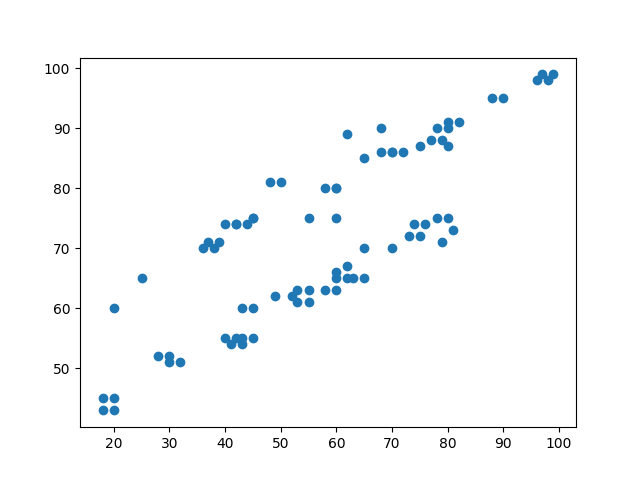
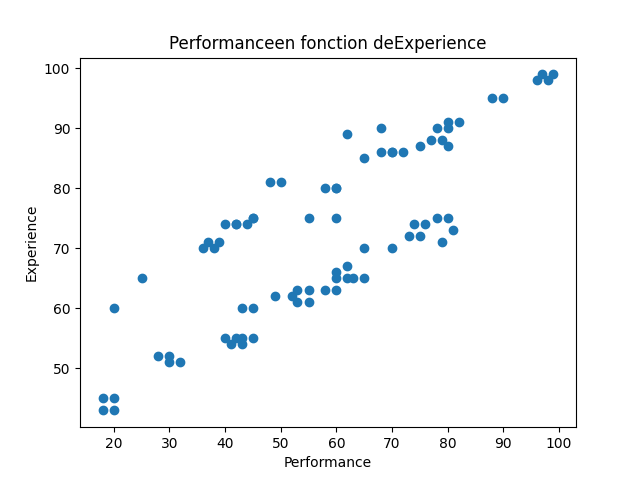
add legend to graph

Changed region(s): [[0.25, 0.0625, 0.75, 0.125], [0.4375, 0.9375, 0.5938, 0.9688], [0.0312, 0.4375, 0.0625, 0.5938]]

diff --git a/python.py b/python.py
@@ -38,22 +38,25 @@ def indicateurs(colonne): # Fonction qui calcule des indicateurs
     compter(colonne)
     
 
-def scatter(x, y):
-  plt.scatter(x, y)
+def scatter(data, x, y):
+  plt.scatter(data[x], data[y])
+  plt.title(x + str(" en fonction de ") + y)
+  plt.xlabel(x)
+  plt.ylabel(y)
   plt.savefig("nuage_de_points")
 
 
 def realisation(data, choix): # Fonction qui agit en fonction du choix de l'utilisateur
 
-  if choix == 1:
+  if choix == "1":
     print(data)
-  elif choix == 2:
+  elif choix == "2":
     colonne = while_liste('Nom de colonne sur lequel faire : ', data.columns)
     indicateurs(data[colonne])
-  elif choix == 3:
+  elif choix == "3":
     axe_x = while_liste("Nom de colonne pour l'axe x : ", data.columns)
     axe_y = while_liste("Nom de colonne pour l'axe y : ", data.columns)
-    scatter(data[axe_x], data[axe_y])
+    scatter(data, axe_x, axe_y)
   else:
     print("r")
 
@@ -67,5 +70,4 @@ if __name__ == "__main__":
     action = while_liste('Que voulez-vous faire : ', ["1", "2", "3", "exit"])
     if action == "exit":
       break
-    action = int(action)
     realisation(fichier, action)

diff --git a/README.md b/README.md
@@ -10,4 +10,4 @@ Remarques:
 
 - Les possibilités ne sont pas énormes mais n'ont n'avons jamais appris à faire des études de données avec python(plutôt R et SAS) ; mais au moins le but du projet est en rapport avec notre domaine d'études.
 
-- 
+- Des hésiations sur la position des inputs. Si j'ai bien compris il faut au maximum qu'ils soient au même endroit et pas dans les fonctions ; tâche non réussie mais j'ai essayé de centraliser les inputs qui sont dans les fonctions dans une seule pour que les autres n'en aient pas.
